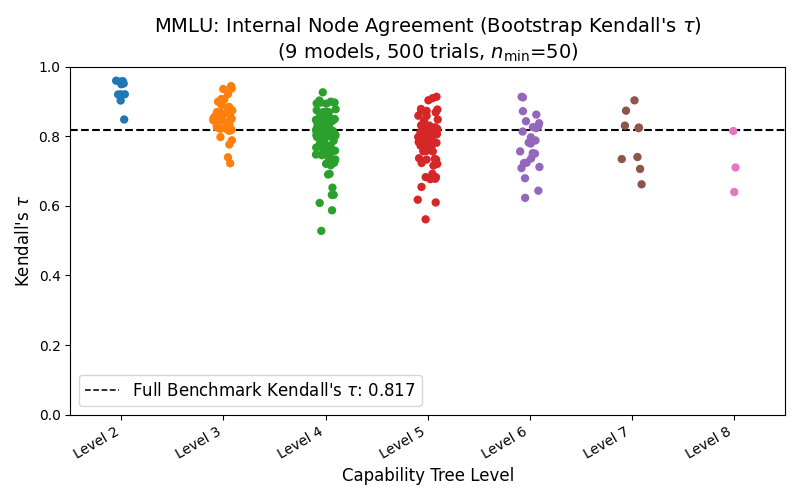
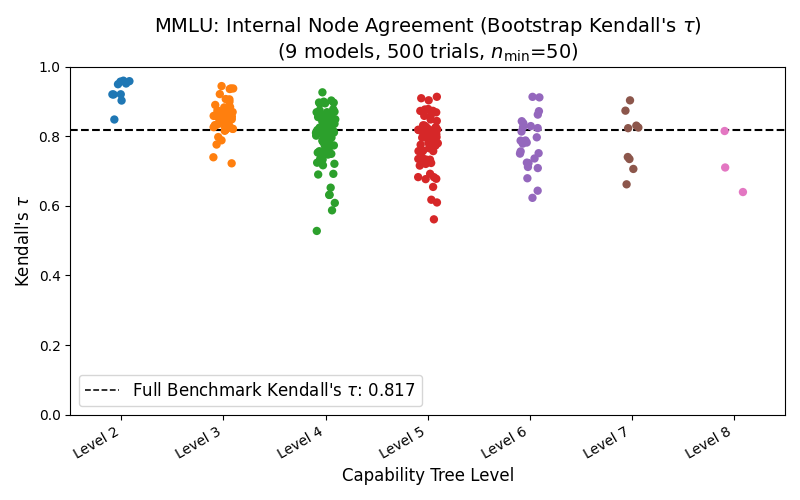
Updated intra node analysis plots

diff --git a/scripts/intra_node_analysis.py b/scripts/intra_node_analysis.py
@@ -116,10 +116,12 @@ def plot_all_nodes_split_halves_histogram(
     min_instance_label = r"$n_{\mathrm{min}}$"
     ylabel = "Number of Nodes"
     title = (
-        f"{dataset.pretty_name}: Internal Node Agreement (Split-Halves {xlabel})"
+        f"{dataset.pretty_name}: Internal Node Agreement"
         f"\n({num_models} models, {num_nodes} nodes, {num_trials} trials, {min_instance_label}={min_instances})"
     )
+    annotate = True
     median = data.median()
+    median_label = f"Median {xlabel}"
     q1 = data.quantile(0.25)
     q3 = data.quantile(0.75)
     xlim = (-1, 1) if min(data) < 0 else (0, 1)
@@ -130,8 +132,9 @@ def plot_all_nodes_split_halves_histogram(
         xlabel=xlabel,
         ylabel=ylabel,
         title=title,
-        annotate=True,
+        annotate=annotate,
         median=median,
+        median_label=median_label,
         q1=q1,
         q3=q3,
         xlim=xlim,
@@ -145,6 +148,7 @@ def plot_per_level_split_halves_stripplot(
     num_models: int,
     min_instances: int,
     num_trials: int,
+    num_nodes: int,
     **kwargs,
 ) -> plt.Figure:
     """Plot split-halves Kendall's Tau values per capability tree level as a strip plot.
@@ -161,6 +165,7 @@ def plot_per_level_split_halves_stripplot(
         num_models: Number of models in the benchmark.
         min_instances: Instance threshold used when collecting nodes.
         num_trials: Number of split-halves trials used per node.
+        num_nodes: Total number of qualifying nodes analysed.
 
     Returns:
         The matplotlib Figure containing the strip plot.
@@ -192,7 +197,7 @@ def plot_per_level_split_halves_stripplot(
         ylim=ylim,
         rotation=30,
         median=median_tau,
-        median_label=r"Full Benchmark Kendall's $\tau$",
+        median_label=f"Median {ylabel} Across All Nodes",
     )
 
 
@@ -287,7 +292,9 @@ def plot_all_nodes_bootstrap_histogram(
         f"{dataset.pretty_name}: Internal Node Agreement (Bootstrap {xlabel})"
         f"\n({num_models} models, {num_nodes} nodes, {num_trials} trials, {min_instance_label}={min_instances})"
     )
+    annotate = True
     median = data.median()
+    median_label = f"Median {xlabel}"
     q1 = data.quantile(0.25)
     q3 = data.quantile(0.75)
     xlim = (-1, 1) if min(data) < 0 else (0, 1)
@@ -298,8 +305,9 @@ def plot_all_nodes_bootstrap_histogram(
         xlabel=xlabel,
         ylabel=ylabel,
         title=title,
-        annotate=True,
+        annotate=annotate,
         median=median,
+        median_label=median_label,
         q1=q1,
         q3=q3,
         xlim=xlim,
@@ -462,7 +470,9 @@ def plot_all_nodes_minibatch_histogram(
         f"{dataset.pretty_name}: Internal Node Agreement (Mini-Batch Kendall's W)"
         f"\n({num_models} models, {num_nodes} nodes, {num_trials} trials, {num_folds} folds, {min_instance_label}={min_instances})"
     )
+    annotate = True
     median = data.median()
+    median_label = f"Median {xlabel}"
     q1 = data.quantile(0.25)
     q3 = data.quantile(0.75)
     xlim = (0, 1)
@@ -473,8 +483,9 @@ def plot_all_nodes_minibatch_histogram(
         xlabel=xlabel,
         ylabel=ylabel,
         title=title,
-        annotate=True,
+        annotate=annotate,
         median=median,
+        median_label=median_label,
         q1=q1,
         q3=q3,
         xlim=xlim,

diff --git a/scripts/intra_subset_analysis.py b/scripts/intra_subset_analysis.py
@@ -125,7 +125,9 @@ def plot_split_halves_histogram(
         f"{dataset.pretty_name}: {dataset.subset_col.title()} Internal Agreement (Split-Halves {xlabel})"
         f"\n({num_models} models, {num_subsets} {dataset.plural}, {num_trials} trials)"
     )
+    annotate = True
     median = data.median()
+    median_label = f"Median {xlabel}"
     q1 = data.quantile(0.25)
     q3 = data.quantile(0.75)
     xlim = (-1, 1) if min(data) < 0 else (0, 1)
@@ -140,8 +142,9 @@ def plot_split_halves_histogram(
         xlabel=xlabel,
         ylabel=ylabel,
         title=title,
-        annotate=True,
+        annotate=annotate,
         median=median,
+        median_label=median_label,
         q1=q1,
         q3=q3,
         xlim=xlim,
@@ -249,7 +252,9 @@ def plot_bootstrap_histogram(
         f"{dataset.pretty_name}: {dataset.subset_col.title()} Internal Agreement (Bootstrap {xlabel})"
         f"\n({num_models} models, {num_subsets} {dataset.plural}, {num_trials} trials)"
     )
+    annotate = True
     median = data.median()
+    median_label = f"Median {xlabel}"
     q1 = data.quantile(0.25)
     q3 = data.quantile(0.75)
     xlim = (-1, 1) if min(data) < 0 else (0, 1)
@@ -264,8 +269,9 @@ def plot_bootstrap_histogram(
         xlabel=xlabel,
         ylabel=ylabel,
         title=title,
-        annotate=True,
+        annotate=annotate,
         median=median,
+        median_label=median_label,
         q1=q1,
         q3=q3,
         xlim=xlim,
@@ -377,6 +383,7 @@ def plot_minibatch_histogram(
         f"{dataset.pretty_name}: {dataset.subset_col.title()} Internal Agreement (Mini-Batch Kendall's W)"
         f"\n({num_models} models, {num_subsets} {dataset.plural}, {num_trials} trials, {num_folds} folds)"
     )
+    annotate = True
     median = data.median()
     q1 = data.quantile(0.25)
     q3 = data.quantile(0.75)
@@ -386,18 +393,20 @@ def plot_minibatch_histogram(
         Dataset.MATH: (0, num_subsets),
         Dataset.MMLU: (0, num_subsets),
     }[dataset]
+    median_label = "Median Kendall's W"
 
     return plot_histogram(
         data,
         xlabel=xlabel,
         ylabel=ylabel,
         title=title,
-        annotate=True,
+        annotate=annotate,
         median=median,
         q1=q1,
         q3=q3,
         xlim=xlim,
         ylim=ylim,
+        median_label=median_label,
     )
 
 
